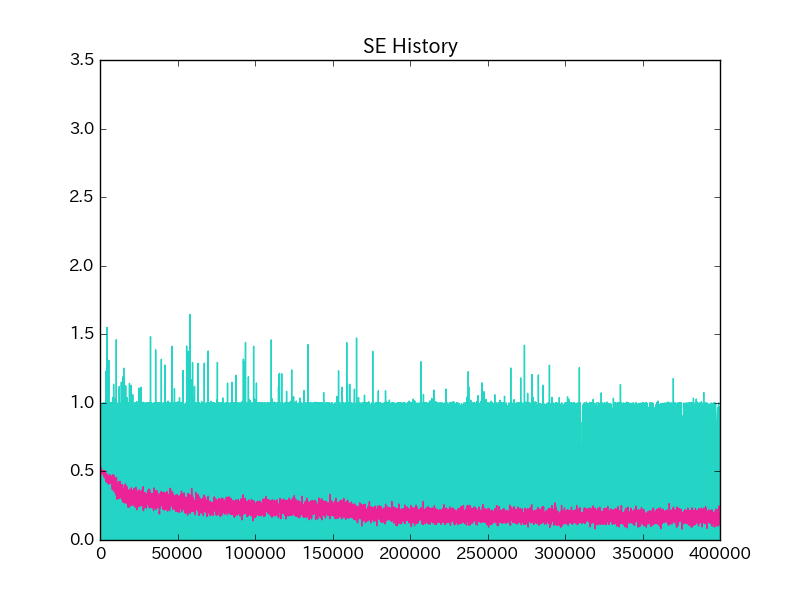
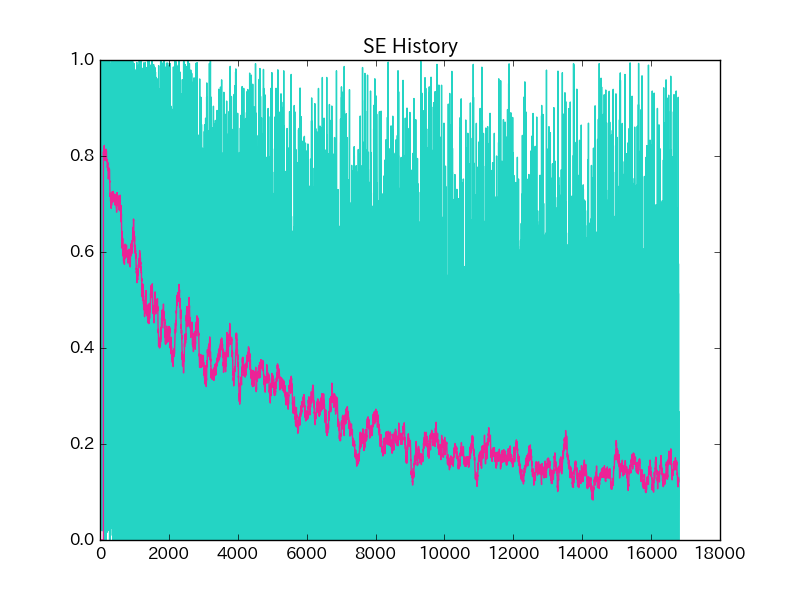
ミニバッチ学習

diff --git a/n-ken/mps20160723.py b/n-ken/mps20160723.py
@@ -1,5 +1,11 @@
 import numpy as np
 
+def softmax(s):
+    '''
+    ソフトマックス関数
+    '''
+    return np.exp(s) / np.exp(s).sum()
+
 def sigmoid(s):
     '''
     sigmoid関数
@@ -89,7 +95,8 @@ if __name__ == '__main__':
     W2 = np.random.randn(n_output_2, n_output_1)
     b2 = np.random.randn(n_output_2, 1)
     # layer2 = Layer(W2, b2, relu)
-    layer2 = Layer(W2, b2, sigmoid)
+    # layer2 = Layer(W2, b2, sigmoid)
+    layer2 = Layer(W2, b2, softmax)
 
     # learning rate
     epsilon = 0.1
@@ -112,55 +119,67 @@ if __name__ == '__main__':
         X_train = X_train[idx, :]
         y_train = y_train[idx, :]
 
-        for i in tqdm(range(n_training_data)):
+        for j in range(0, X_train.shape[0], n_training_data):
 
-            # 重み行列のノルムの計算し、履歴リストに追加
-            W1_history.append(np.linalg.norm(layer1._W))
-            W2_history.append(np.linalg.norm(layer2._W))
+            Delta_W1, Delta_W2, Delta_B1, Delta_B2 = 0, 0, 0, 0
 
-            # 潤伝搬計算
-            x = X_train[i, :].reshape(n_output_0, 1)
-            y1 = layer1.propagate_forward(x)
-            y2 = layer2.propagate_forward(y1)
+            for i in tqdm(range(j, j + n_training_data)):
 
-            # 各層の(活性化関数適用後の)出力を履歴に追加
-            y1_history.append(y1)
-            y2_history.append(y2)
+                # 潤伝搬計算
+                x = X_train[i, :].reshape(n_output_0, 1)
+                y1 = layer1.propagate_forward(x)
+                y2 = layer2.propagate_forward(y1)
 
-            # ネットワークの出力
-            t = y_train[i, :].reshape(n_output_2, 1)
+                # ネットワークの出力
+                t = y_train[i, :].reshape(n_output_2, 1)
 
-            # 誤差を履歴リストに追加
-            se_history.append(se(t, y2))
+                # 誤差逆伝播
+                # delta2 = d_se(t, y2) * d_relu(y2)
+                # delta1 = layer2._W.T @ delta2 * d_relu(y1)
+                delta2 = d_se(t, y2) * d_sigmoid(y2)
+                delta1 = layer2._W.T @ delta2 * d_sigmoid(y1)
 
-            # 誤差逆伝播
-            # delta2 = d_se(t, y2) * d_relu(y2)
-            # delta1 = layer2._W.T @ delta2 * d_relu(y1)
-            delta2 = d_se(t, y2) * d_sigmoid(y2)
-            delta1 = layer2._W.T @ delta2 * d_sigmoid(y1)
+                # 各イテレーションの最初のデータを格納する
+                if i % (n_training_data) == 0:
+                    # 重み行列のノルムの計算し、履歴リストに追加
+                    W1_history.append(np.linalg.norm(layer1._W))
+                    W2_history.append(np.linalg.norm(layer2._W))
+
+                    # 各層の(活性化関数適用後の)出力を履歴に追加
+                    y1_history.append(y1)
+                    y2_history.append(y2)
+
+                    # 誤差を履歴リストに追加
+                    se_history.append(se(t, y2))
+
+                # 勾配の計算
+                Delta_W2 += delta2 @ y1.T
+                Delta_B2 += delta2
+                Delta_W1 += delta1 @ x.T
+                Delta_B1 += delta1
 
             # 第二層の重み行列について、偏微分*学習率を除算
-            Delta_W2 = delta2 @ y1.T
-            layer2._W -= epsilon * Delta_W2
-            layer2._b -= epsilon * delta2
+            layer2._W -= epsilon * Delta_W2 / n_training_data
+            layer2._b -= epsilon * Delta_B2 / n_training_data
 
             # 第一層の重み行列について、偏微分*学習率を除算
-            Delta_W1 = delta1 @ x.T
-            layer1._W -= epsilon * Delta_W1
-            layer1._b -= epsilon * delta1
+            layer1._W -= epsilon * Delta_W1 / n_training_data
+            layer1._b -= epsilon * Delta_B1 / n_training_data
 
-        # 学習に使用していないデータから100個取り出し、Accuracyを計算する
-        n_correct_prediction = 0
-        n_prediction = 0
-        for _i in np.random.choice(np.arange(n_training_data, X_train.shape[0]), 100):
-            _x = X_train[_i, :].reshape(n_output_0, 1)
-            _y1 = layer1.propagate_forward(_x)
-            _y2 = layer2.propagate_forward(_y1)
+            # 学習に使用していないデータから100個取り出し、Accuracyを計算する
+            n_correct_prediction = 0
+            n_prediction = 0
+            valid_idx = np.concatenate([np.arange(0, j),
+                                        np.arange(j + n_training_data, X_train.shape[0])])
+            for _i in np.random.choice(valid_idx, 100):
+                _x = X_train[_i, :].reshape(n_output_0, 1)
+                _y1 = layer1.propagate_forward(_x)
+                _y2 = layer2.propagate_forward(_y1)
 
-            n_prediction += 1
-            if y_train[_i, :].argmax() == _y2.argmax():
-                n_correct_prediction += 1
-        cpr_history.append(n_correct_prediction / n_prediction)
+                n_prediction += 1
+                if y_train[_i, :].argmax() == _y2.argmax():
+                    n_correct_prediction += 1
+            cpr_history.append(n_correct_prediction / n_prediction)
 
 # draw W1
 plt.figure()
